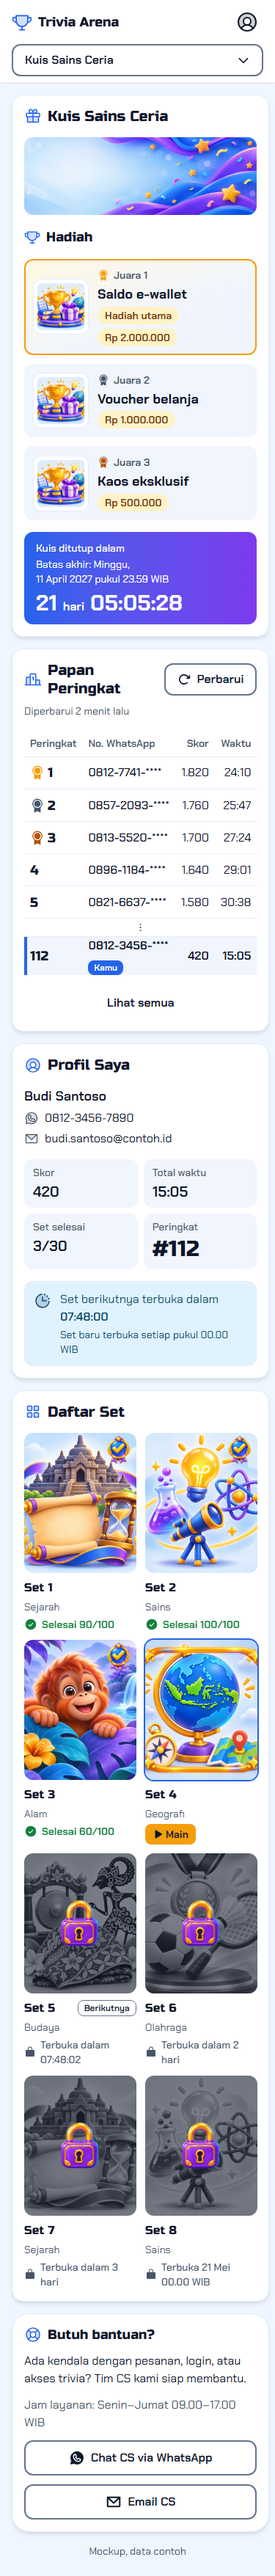
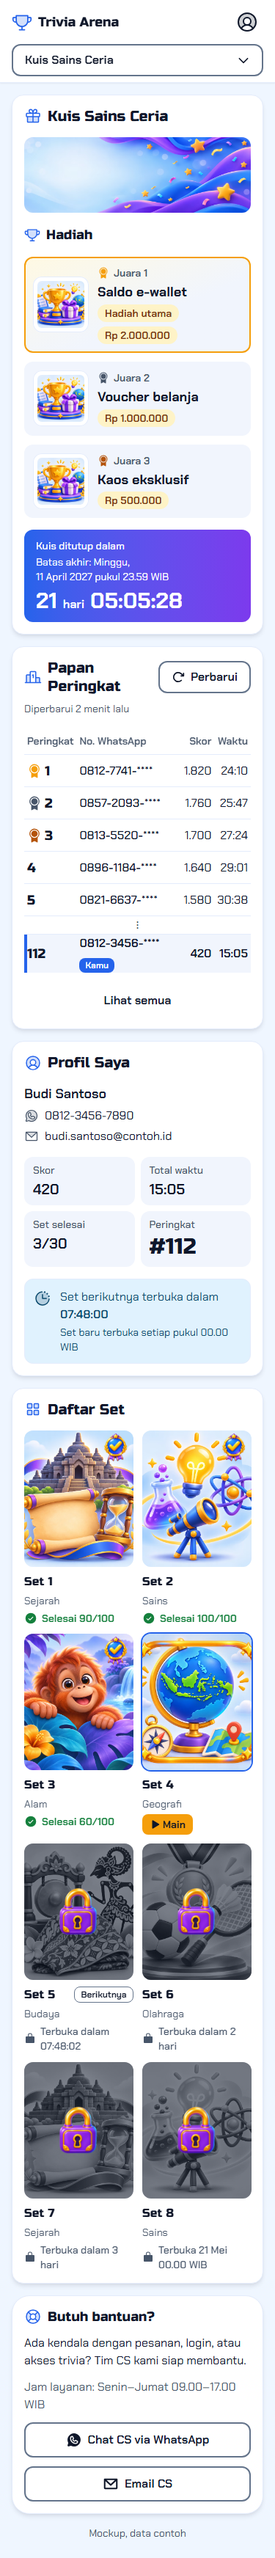
fix(trivia): the leaderboard fits a 320 px phone with WhatsApp numbers
The "No. WhatsApp" column header could not wrap, so the table's minimum
width pushed the trivia page 2 px past 375 px on CI's Linux fonts (31 px
at 320 px). The header now wraps, cells are tighter below 640 px, the
page grid is one column that cannot grow past the screen (a too-wide
table scrolls inside its card), and a card's action drops below the
title only when the title's longest word and the action do not fit.

diff --git a/apps/public/src/components/trivia/live/live-leaderboard.tsx b/apps/public/src/components/trivia/live/live-leaderboard.tsx
@@ -146,12 +146,12 @@ export function LiveLeaderboard({ programId, initial, tiers }: { readonly progra
       {data.top.length === 0 ? (
         <p className="text-base text-muted-foreground">{t("leaderboard.empty")}</p>
       ) : (
-        <Table className="text-base tabular">
+        <Table className="text-base tabular max-sm:[&_td]:px-1 max-sm:[&_th]:px-1">
           <caption className="sr-only">{t("leaderboard.captionTopN", { n: data.top.length })}</caption>
           <TableHeader>
             <TableRow className="hover:bg-transparent">
               <TableHead className="w-14 text-sm">{t("leaderboard.colRank")}</TableHead>
-              <TableHead className="text-sm">{t("leaderboard.colName")}</TableHead>
+              <TableHead className="text-sm whitespace-normal">{t("leaderboard.colName")}</TableHead>
               <TableHead className="text-right text-sm">{t("leaderboard.colScore")}</TableHead>
               <TableHead className="text-right text-sm">{t("leaderboard.colTime")}</TableHead>
             </TableRow>
@@ -169,7 +169,7 @@ export function LiveLeaderboard({ programId, initial, tiers }: { readonly progra
                   </TableCell>
                   <TableCell className="h-11 font-medium break-words">
                     <span className="flex flex-wrap items-center gap-2">
-                      <span className="whitespace-nowrap">{r.name}</span>
+                      <span>{r.name}</span>
                       {mine ? <Badge>{t("leaderboard.you")}</Badge> : null}
                     </span>
                   </TableCell>
@@ -192,7 +192,7 @@ export function LiveLeaderboard({ programId, initial, tiers }: { readonly progra
                   </TableCell>
                   <TableCell className="h-12 font-semibold">
                     <span className="flex flex-wrap items-center gap-2">
-                      <span className="whitespace-nowrap">{data.me.name}</span>
+                      <span>{data.me.name}</span>
                       <Badge>{t("leaderboard.you")}</Badge>
                     </span>
                     <span className="sr-only">{data.me.rank === null ? t("leaderboard.notPlayed") : `${t("leaderboard.myRank")} ${t("leaderboard.ofPlayers", { n: data.me.ranked })}`}</span>

diff --git a/apps/public/src/components/trivia/leaderboard-card.tsx b/apps/public/src/components/trivia/leaderboard-card.tsx
@@ -89,12 +89,12 @@ export function LeaderboardCard({ rows, me, tiers, initialAgeSeconds = 120 }: Le
         {t("leaderboard.updatedAgo", { ago: agoLabel(age) })}
       </p>
 
-      <Table className="text-base tabular">
+      <Table className="text-base tabular max-sm:[&_td]:px-1 max-sm:[&_th]:px-1">
         <caption className="sr-only">{t("leaderboard.captionTop")}</caption>
         <TableHeader>
           <TableRow className="hover:bg-transparent">
             <TableHead className="w-14 text-sm">{t("leaderboard.colRank")}</TableHead>
-            <TableHead className="text-sm">{t("leaderboard.colName")}</TableHead>
+            <TableHead className="text-sm whitespace-normal">{t("leaderboard.colName")}</TableHead>
             <TableHead className="text-right text-sm">{t("leaderboard.colScore")}</TableHead>
             <TableHead className="text-right text-sm">{t("leaderboard.colTime")}</TableHead>
           </TableRow>
@@ -108,7 +108,7 @@ export function LeaderboardCard({ rows, me, tiers, initialAgeSeconds = 120 }: Le
                 <TableCell className="h-11 font-heading text-lg">
                   <RankCell rank={r.rank} tiers={tiers} />
                 </TableCell>
-                <TableCell className="h-11 font-medium whitespace-nowrap">{r.name}</TableCell>
+                <TableCell className="h-11 font-medium">{r.name}</TableCell>
                 <TableCell className="h-11 text-right whitespace-nowrap">{formatNumber(r.score)}</TableCell>
                 <TableCell className="h-11 text-right whitespace-nowrap">{formatMinSec(r.seconds)}</TableCell>
               </TableRow>
@@ -126,7 +126,7 @@ export function LeaderboardCard({ rows, me, tiers, initialAgeSeconds = 120 }: Le
             </TableCell>
             <TableCell className="h-12 font-semibold">
               <span className="flex flex-wrap items-center gap-2">
-                <span className="whitespace-nowrap">{me.name}</span>
+                <span>{me.name}</span>
                 <Badge>{t("leaderboard.you")}</Badge>
               </span>
               <span className="sr-only">{t("leaderboard.myRank")}</span>

diff --git a/apps/public/src/components/trivia/trivia-card.tsx b/apps/public/src/components/trivia/trivia-card.tsx
@@ -30,8 +30,10 @@ interface CardHeadingProps {
 export function CardHeading({ id, level = "h2", icon, children, action }: CardHeadingProps) {
   const Heading = level;
   return (
-    <header className="flex items-center justify-between gap-3">
-      <div className="flex min-w-0 items-center gap-2">
+    // The action drops below the title only when the title's longest word and the action do not fit side by side (a 320 px phone):
+    // the title's flex basis is its min-content, so the line breaks on that, and it grows to push the action to the right otherwise.
+    <header className="flex flex-wrap items-center justify-between gap-3">
+      <div className="flex min-w-0 grow basis-[min-content] items-center gap-2">
         <span aria-hidden="true" className="shrink-0 text-primary">
           {icon}
         </span>

diff --git a/apps/public/src/app/(play)/trivia/[programSlug]/page.tsx b/apps/public/src/app/(play)/trivia/[programSlug]/page.tsx
@@ -54,7 +54,7 @@ export default async function TriviaProgramPage({ params }: PageProps) {
         {t("common.skipToContent")}
       </a>
       <LiveHeader programs={programs} currentSlug={page.slug} />
-      <main id="konten" className="mx-auto grid max-w-[720px] gap-4 px-4 py-4 md:gap-6 md:px-6 md:py-6 xl:max-w-[1200px] xl:grid-cols-12">
+      <main id="konten" className="mx-auto grid max-w-[720px] grid-cols-1 gap-4 px-4 py-4 md:gap-6 md:px-6 md:py-6 xl:max-w-[1200px] xl:grid-cols-12">
         <div className="xl:col-span-12">
           <LiveBanner page={page} view={view} />
         </div>

diff --git a/apps/public/src/app/(mockups)/mockups/trivia/page.tsx b/apps/public/src/app/(mockups)/mockups/trivia/page.tsx
@@ -35,7 +35,7 @@ export default async function TriviaMockupPage({ searchParams }: PageProps) {
       <TriviaHeader programs={PROGRAMS} currentSlug={program.slug} basePath="/mockups/trivia" />
       <main
         id="konten"
-        className="mx-auto grid max-w-[720px] gap-4 px-4 py-4 md:gap-6 md:px-6 md:py-6 xl:max-w-[1200px] xl:grid-cols-12"
+        className="mx-auto grid max-w-[720px] grid-cols-1 gap-4 px-4 py-4 md:gap-6 md:px-6 md:py-6 xl:max-w-[1200px] xl:grid-cols-12"
       >
         <div className="xl:col-span-12">
           <BannerCard program={program} />
